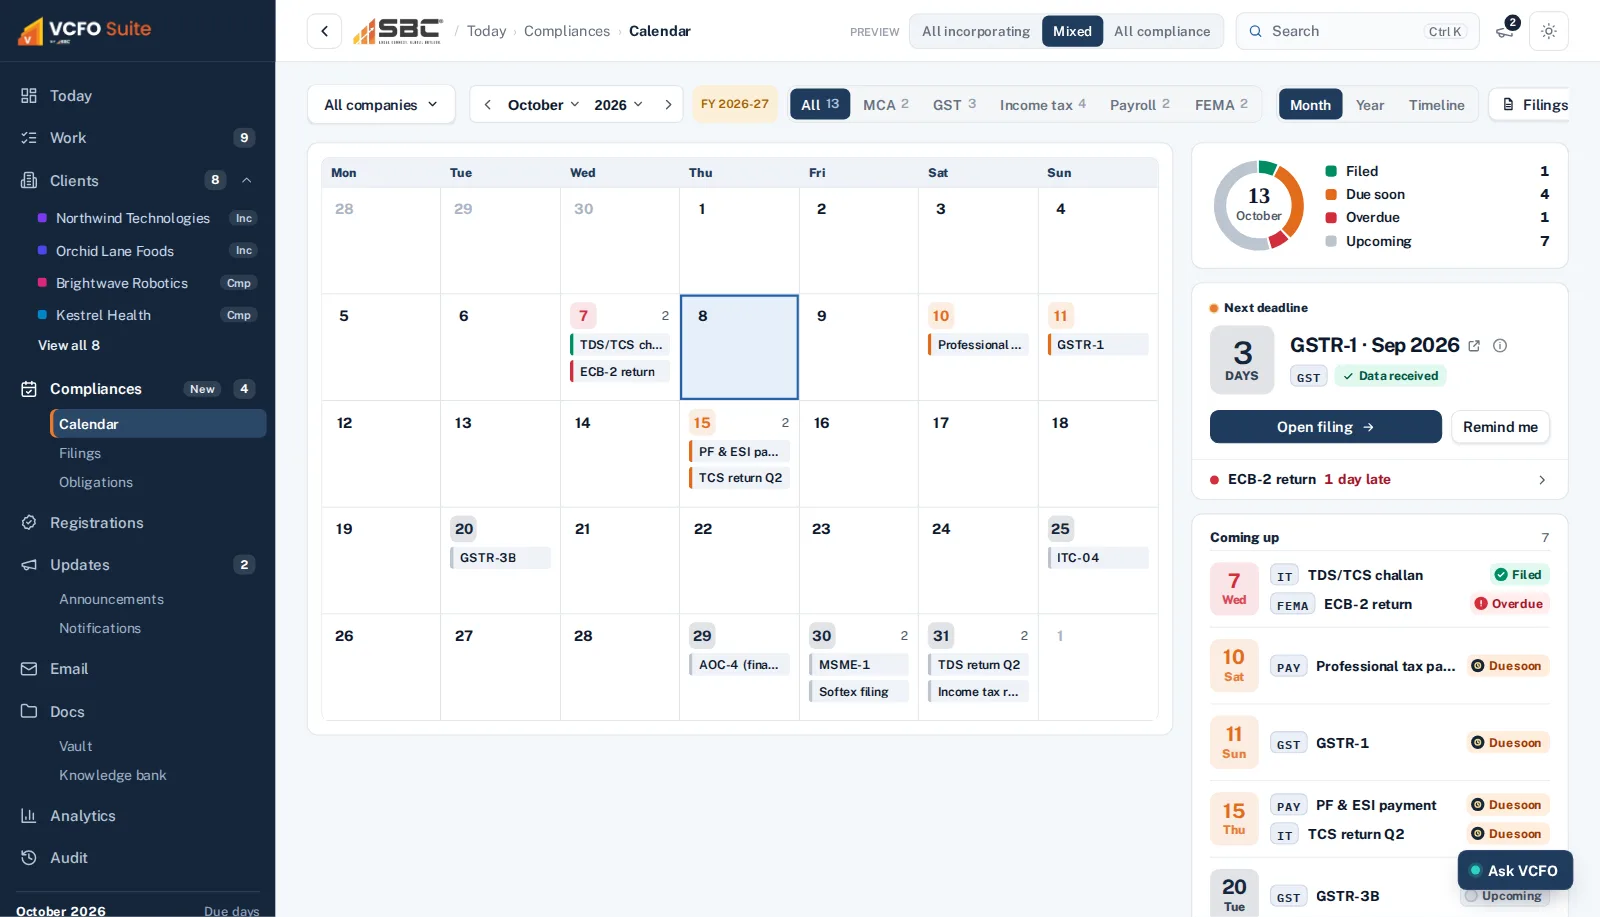
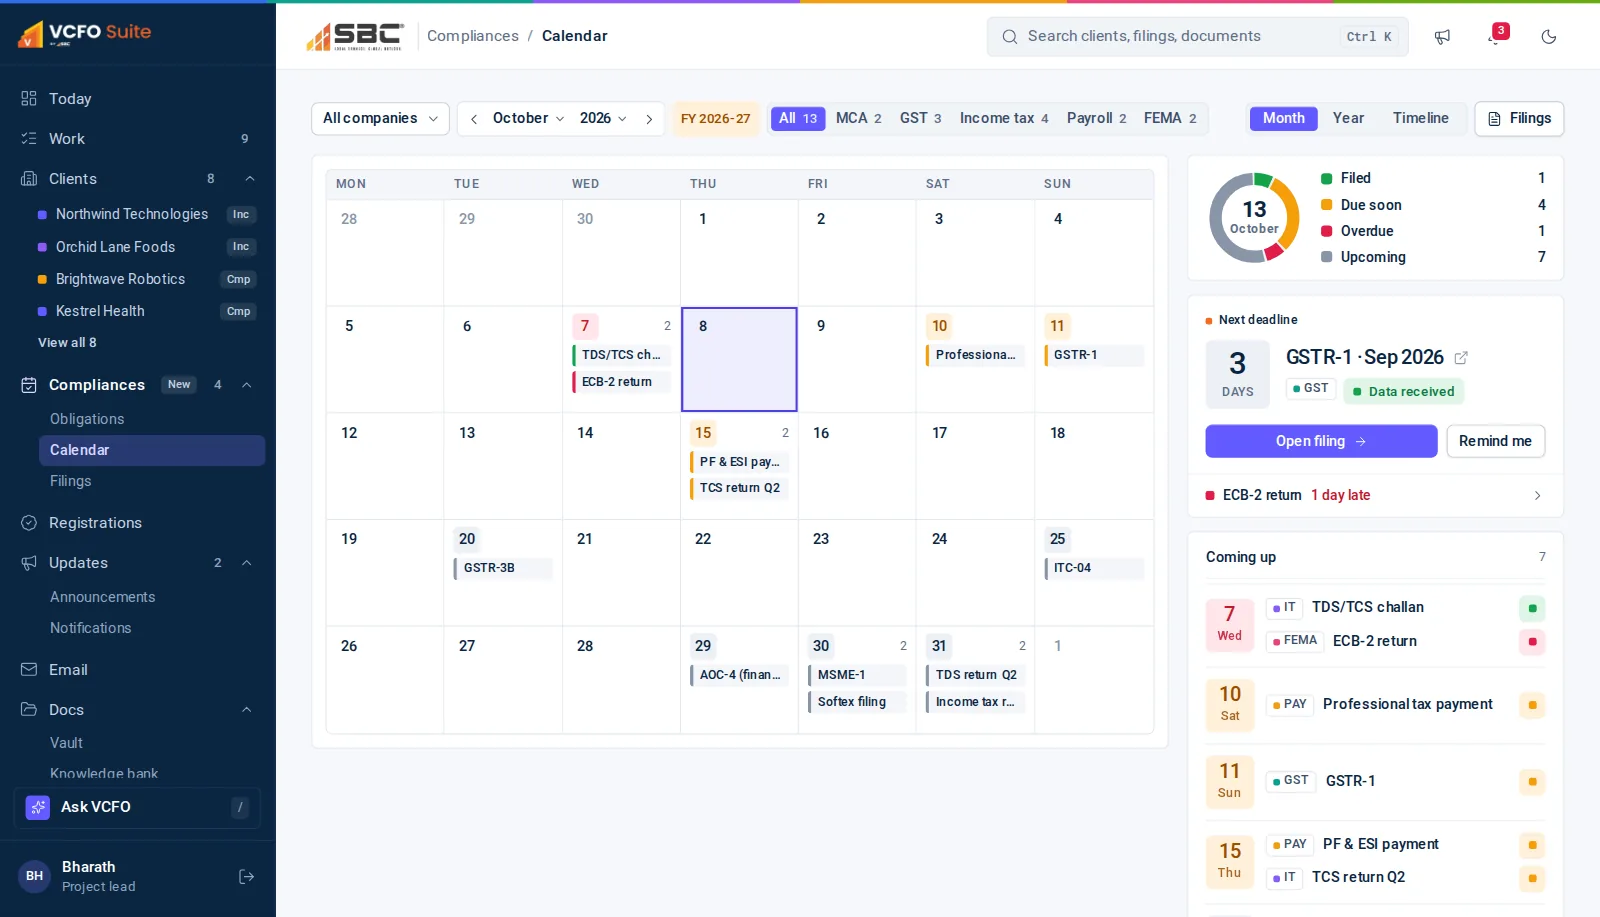
Spectrum: review fixes 1
- Landing: the intro logo is anchored to the hero, never mid-page.
- Landing: hero, calendar, filings, portal and Ask screenshots retaken from the Spectrum screens.
- Home tiles: sub lines on every staff Today, sparklines for overdue and waiting where history exists; label spans the tile.
- Manager Today approvals: one title line and one meta line.

Claude-Session: https://claude.ai/code/session_01WJz9229Se3HGJ2hCALHz88

diff --git a/src/screens/staff/today-parts.tsx b/src/screens/staff/today-parts.tsx
@@ -9,7 +9,7 @@ import { clientById, clientsFor, PHASE_TOTALS, type StaffClient } from "@/data/s
 import { INBOX, queueFor, tasksFor, type StaffTask, type TaskStatus } from "@/data/staff-tasks";
 import { LEAD_STATS, MANAGERS, leadOpen, managerRows, UNASSIGNED } from "@/data/staff-team";
 import { APPROVALS } from "@/data/staff-tasks";
-import { TODOS, sameDay, type Todo } from "@/data/staff-work";
+import { DAY_SHORT, TODOS, WEEK, sameDay, type Todo } from "@/data/staff-work";
 import {
   DAYS_TO_COI,
   DONE_TODAY,
@@ -26,6 +26,7 @@ import {
   filingRow,
   phaseCells,
   practiceNumbers,
+  TODAY_NOTES,
   waitingOnClient,
   weekItems,
   type FilingCell,
@@ -160,10 +161,14 @@ export function todayStats(portal: StaffPortal, scope: Scope): StatItem[] {
   if (portal === "admin") {
     const cl = clientsFor(portal).filter((c) => inScope(scope, c.id));
     const open = tasksFor(portal).filter((t) => t.status !== "Done" && inScope(scope, t.client));
+    const overdue = open.filter((t) => t.status === "Overdue");
+    const stuck = cl.filter((c) => c.health === "Stuck");
+    const lastDay = WEEK[WEEK.length - 1];
     return [
       {
         label: "Clients",
         value: cl.length,
+        sub: `${new Set(cl.map((c) => c.manager)).size} managers`,
         Icon: Building2,
         tone: "blue",
         href: `${b}/clients`,
@@ -171,6 +176,7 @@ export function todayStats(portal: StaffPortal, scope: Scope): StatItem[] {
       {
         label: "Incorporating",
         value: cl.filter((c) => c.stage === "incorporating").length,
+        sub: `${cl.filter((c) => c.stage === "incorporating" && c.pendingWith === "MCA").length} with MCA`,
         Icon: Rocket,
         tone: "violet",
         href: `${b}/clients`,
@@ -178,13 +184,15 @@ export function todayStats(portal: StaffPortal, scope: Scope): StatItem[] {
       {
         label: "In compliance",
         value: cl.filter((c) => c.stage === "compliance").length,
+        sub: `${cl.filter((c) => c.stage === "compliance" && c.pendingWith === "Client").length} waiting on client`,
         Icon: ShieldCheck,
         tone: "green",
         href: `${b}/clients`,
       },
       {
         label: "Overdue",
-        value: open.filter((t) => t.status === "Overdue").length,
+        value: overdue.length,
+        sub: `${new Set(overdue.map((t) => t.client)).size} clients`,
         Icon: AlertTriangle,
         tone: "red",
         bad: true,
@@ -192,7 +200,8 @@ export function todayStats(portal: StaffPortal, scope: Scope): StatItem[] {
       },
       {
         label: "Stuck",
-        value: cl.filter((c) => c.health === "Stuck").length,
+        value: stuck.length,
+        sub: stuck.length ? `longest ${Math.max(...stuck.map((c) => c.days))} days` : undefined,
         Icon: Clock,
         tone: "amber",
         bad: true,
@@ -201,6 +210,7 @@ export function todayStats(portal: StaffPortal, scope: Scope): StatItem[] {
       {
         label: "Due this week",
         value: open.filter((t) => t.status === "Due this week").length,
+        sub: `by ${DAY_SHORT[lastDay.getDay()]} ${fmt(lastDay)}`,
         Icon: CalendarDays,
         tone: "teal",
         href: `${b}/work`,
@@ -210,10 +220,18 @@ export function todayStats(portal: StaffPortal, scope: Scope): StatItem[] {
   const queue = queueFor(portal).filter((t) => inScope(scope, t.client));
   const late = queue.filter((t) => t.status === "Overdue").length + filingCounts(clientsFor(portal).filter((c) => inScope(scope, c.id))).overdue;
   const week = weekItems(portal).filter((w) => w.kind !== "done" && inScope(scope, w.client)).length;
+  const notes = TODAY_NOTES[portal];
+  const lateTasks = queue.filter((t) => t.status === "Overdue");
+  const lateClients = new Set(lateTasks.map((t) => t.client)).size;
+  const waits = waitingOnClient(portal).filter((t) => inScope(scope, t.client));
+  const oldest = Math.max(0, ...waits.map((t) => t.days));
+  const lastDay = WEEK[WEEK.length - 1];
+  const full = scope === "all";
   return [
     {
       label: "Needs action",
       value: queue.length,
+      sub: full && notes.newToday ? `${notes.newToday} new today` : undefined,
       Icon: ListChecks,
       tone: "blue",
       href: `${b}/work`,
@@ -221,6 +239,9 @@ export function todayStats(portal: StaffPortal, scope: Scope): StatItem[] {
     {
       label: "Overdue",
       value: late,
+      sub: lateClients ? `${lateClients} ${lateClients === 1 ? "client" : "clients"}` : undefined,
+      spark: full ? notes.overdueTrend : undefined,
+      sparkTone: "bad",
       Icon: AlertTriangle,
       tone: "red",
       bad: late > 0,
@@ -228,7 +249,10 @@ export function todayStats(portal: StaffPortal, scope: Scope): StatItem[] {
     },
     {
       label: "Waiting on clients",
-      value: waitingOnClient(portal).filter((t) => inScope(scope, t.client)).length + WAIT_MCA.filter((w) => inScope(scope, w.client)).length,
+      value: waits.length + WAIT_MCA.filter((w) => inScope(scope, w.client)).length,
+      sub: oldest ? `oldest ${oldest} days` : undefined,
+      spark: full ? notes.waitingTrend : undefined,
+      sparkTone: "teal",
       Icon: User,
       tone: "amber",
       href: `${b}/work`,
@@ -236,12 +260,14 @@ export function todayStats(portal: StaffPortal, scope: Scope): StatItem[] {
     {
       label: "Due this week",
       value: week,
+      sub: `by ${DAY_SHORT[lastDay.getDay()]} ${fmt(lastDay)}`,
       Icon: CalendarDays,
       tone: "teal",
       href: `${b}/work`,
     },
     {
       label: "Done today",
+      sub: notes.doneWhat,
       value: DONE_TODAY[portal],
       Icon: CheckCheck,
       tone: "green",
@@ -847,11 +873,11 @@ export function ApprovalsWaiting({ portal, notify }: { portal: StaffPortal; noti
           <ListRow key={a.id}>
             {c && <ClientCodeTile c={c} size={30} />}
             <span className="min-w-0 flex-1">
-              <Link href={clientHref(portal, a.client)} className="block font-medium leading-snug text-ink hover:underline">
+              <Link href={clientHref(portal, a.client)} title={`${a.title} · sent by ${a.by}`} className="block truncate font-medium leading-snug text-ink hover:underline">
                 {a.title}
               </Link>
               <span className="block truncate text-12.5 text-muted">
-                {c?.short} · <span className={today ? "text-warn" : "text-accent"}>{today ? "Due today" : `Due ${fmt(a.sent)}`}</span> · {a.by.split(" ")[0]}
+                {c?.short} · <span className={today ? "text-warn" : "text-accent"}>{today ? "Due today" : `Due ${fmt(a.sent)}`}</span>
               </span>
             </span>
             <Button

diff --git a/src/screens/public/LandingScreen.tsx b/src/screens/public/LandingScreen.tsx
@@ -126,7 +126,7 @@ export function LandingScreen({ fontClass = "" }: { fontClass?: string }) {
             <div className="float float-a" data-app="filings" aria-label="Open the filings screen" role="link" tabIndex={0}><span className="pill pill-positive">Filed</span><span className="t"><span>GSTR-3B, September</span><span className="mono">Acknowledgement attached</span></span></div>
             <div className="float float-b" data-app="inc-step-7" aria-label="Open step 7, registered office address" role="link" tabIndex={0}><span className="pill pill-highlight">Needs you</span><span className="t"><span>Utility bill for the office</span><span className="mono">Due 9 Oct</span></span></div>
             <div className="frame" data-app="incorporation" aria-label="Open the incorporation screen" role="link" tabIndex={0}>
-              <img src="/landing/hero-incorporation.webp" alt="VCFO Suite client portal, incorporation view for Northwind Technologies India Pvt Ltd: 22 days to the Certificate of Incorporation, 6 of 25 steps done, this week's tasks and the SPICe+ timeline." width="2400" height="1375" fetchPriority="high" />
+              <img src="/landing/hero-incorporation.webp" alt="VCFO Suite client portal, incorporation view for Northwind Technologies India Pvt Ltd: 22 days to the Certificate of Incorporation, 6 of 25 steps done, the current steps with who holds each one, this week's tasks and the incorporation status." width="2400" height="1375" fetchPriority="high" />
             </div>
           </div>
         </div>
@@ -476,19 +476,19 @@ export function LandingScreen({ fontClass = "" }: { fontClass?: string }) {
             </div>
             <div className="tabpanel">
               <div className="frame" role="tabpanel" id="panel-client" aria-labelledby="tab-client" hidden={tab !== "client"} data-app="home">
-                <img src="/landing/portal-client.webp" alt="Client portal home for Northwind Technologies India Pvt Ltd: what is needed from Northwind, who holds each step now, steps around Northwind and important alerts." width="2000" height="1146" />
+                <img src="/landing/portal-client.webp" alt="Client portal home for Northwind Technologies India Pvt Ltd: the home card with five numbers, the incorporation steps with who holds each one, what is needed from Northwind and the timeline." width="2000" height="1146" />
               </div>
               <div className="frame" role="tabpanel" id="panel-lead" aria-labelledby="tab-lead" hidden={tab !== "lead"} data-app="lead-home">
-                <img src="/landing/portal-lead.webp" alt="Project lead Today screen for Bharath: this week across eight companies, the action queue by company, triage and the calendar of due days." width="2000" height="1146" />
+                <img src="/landing/portal-lead.webp" alt="Project lead Today screen for Bharath: the home card with five numbers, the action queue by company, the inbox and phase progress." width="2000" height="1146" />
               </div>
               <div className="frame" role="tabpanel" id="panel-manager" aria-labelledby="tab-manager" hidden={tab !== "manager"} data-app="mgr-home">
-                <img src="/landing/portal-manager.webp" alt="Manager Today screen for Pranay: this week across eight companies, team tasks by project lead, company and status, and the task status breakdown." width="2000" height="1146" />
+                <img src="/landing/portal-manager.webp" alt="Manager Today screen for Pranay: the home card with five numbers, team tasks with filters, approvals, the task status donut and workload by project lead." width="2000" height="1146" />
               </div>
               <div className="frame" role="tabpanel" id="panel-admin" aria-labelledby="tab-admin" hidden={tab !== "admin"} data-app="admin-home">
-                <img src="/landing/portal-admin.webp" alt="Admin Today screen for Krishna: fourteen clients with their stage, manager, who it is pending with, and health, the managers' load, and the incorporation pipeline." width="2000" height="1146" />
+                <img src="/landing/portal-admin.webp" alt="Admin Today screen for Krishna: the home card, the practice areas, fourteen clients with their stage, manager and health, and the managers' load." width="2000" height="1146" />
               </div>
               <div className="frame" role="tabpanel" id="panel-super" aria-labelledby="tab-super" hidden={tab !== "super"} data-app="super-home">
-                <img src="/landing/portal-super.webp" alt="Super admin overview for Mithilesh: the firm's numbers, the three practice areas side by side, admins and managers, top risks and clients needing attention." width="2000" height="1146" />
+                <img src="/landing/portal-super.webp" alt="Super admin overview for Mithilesh: the home card with the firm's numbers, the practice areas side by side, top risks and clients needing attention." width="2000" height="1146" />
               </div>
             </div>
           </div>
@@ -501,7 +501,7 @@ export function LandingScreen({ fontClass = "" }: { fontClass?: string }) {
           <div className="ask">
             <div className="reveal">
               <div className="panel" data-app="home-chat" aria-label="Open Ask VCFO" role="link" tabIndex={0}>
-                <img src="/landing/ask-vcfo.webp" alt="Ask VCFO panel inside the client portal, answering from Northwind's project data, with suggested questions." width="779" height="1126" />
+                <img src="/landing/ask-vcfo.webp" alt="Ask VCFO panel inside the client portal, answering from Northwind's project data, with suggested questions." width="779" height="1150" />
               </div>
             </div>
             <div className="reveal">

diff --git a/src/components/cards/GreetingCard.tsx b/src/components/cards/GreetingCard.tsx
@@ -20,6 +20,8 @@ export interface StatItem {
   sub?: string;
   /** Sparkline points. */
   spark?: number[];
+  /** Sparkline colour; default from bad/good, else blurple. */
+  sparkTone?: "bad" | "ok" | "teal" | "warn" | "accent";
   /** Small green progress bar under the number, in percent. */
   bar?: number;
   href?: string;
@@ -32,27 +34,29 @@ export function NumberStrip({ items, className, onWash }: { items: StatItem[]; c
       {items.map((s) => {
         const inner = (
           <>
-            <span className="flex min-w-0 flex-1 flex-col gap-1.5">
-              <span className="flex items-start gap-1.5 text-13 font-medium leading-[18px] text-ink-2">
-                <s.Icon size={15} strokeWidth={1.6} className="mt-px flex-none text-muted" aria-hidden />
-                <span className="min-w-0">{s.label}</span>
-              </span>
-              <b className={cn("text-26 font-medium tabular-nums", s.bad ? "text-bad" : s.good ? "text-ok" : "text-ink")}>
-                {s.value}
-                {s.of && <small className="ml-1 text-14 font-medium text-muted">{s.of}</small>}
-              </b>
-              {s.bar !== undefined && (
-                <span className="block h-1 w-full max-w-[120px] overflow-hidden rounded-bar bg-line" aria-hidden>
-                  <i className="block h-full rounded-bar bg-ok-mid" style={{ width: `${s.bar}%` }} />
-                </span>
-              )}
-              {s.sub && <span className="truncate text-12.5 text-muted">{s.sub}</span>}
+            <span className="flex min-w-0 items-center gap-1.5 whitespace-nowrap text-13 font-medium text-ink-2">
+              <s.Icon size={15} strokeWidth={1.6} className="flex-none text-muted" aria-hidden />
+              <span className="truncate">{s.label}</span>
             </span>
-            {s.spark && <Spark points={s.spark} className={s.bad ? "text-bad-mid" : s.good ? "text-ok-mid" : "text-accent-mid"} />}
+            <span className="flex min-w-0 items-end gap-2.5">
+              <span className="flex min-w-0 flex-1 flex-col gap-1.5">
+                <b className={cn("text-26 font-medium tabular-nums", s.bad ? "text-bad" : s.good ? "text-ok" : "text-ink")}>
+                  {s.value}
+                  {s.of && <small className="ml-1 text-14 font-medium text-muted">{s.of}</small>}
+                </b>
+                {s.bar !== undefined && (
+                  <span className="block h-1 w-full max-w-[120px] overflow-hidden rounded-bar bg-line" aria-hidden>
+                    <i className="block h-full rounded-bar bg-ok-mid" style={{ width: `${s.bar}%` }} />
+                  </span>
+                )}
+                {s.sub && <span className="truncate text-12.5 text-muted">{s.sub}</span>}
+              </span>
+              {s.spark && <Spark points={s.spark} className={SPARK[s.sparkTone ?? (s.bad ? "bad" : s.good ? "ok" : "accent")]} />}
+            </span>
           </>
         );
         const cls = cn(
-          "flex min-w-0 items-end gap-2.5 rounded-md px-4 py-3.5",
+          "flex min-w-0 flex-col justify-start gap-1.5 rounded-md px-4 py-3.5",
           onWash ? "border border-wash-tile-line bg-wash-tile shadow-tile" : "border-1.5 border-line bg-surface",
           s.href && "transition-colors hover:border-line-2",
         );
@@ -69,6 +73,8 @@ export function NumberStrip({ items, className, onWash }: { items: StatItem[]; c
     </div>
   );
 }
+
+const SPARK = { bad: "text-bad-mid", ok: "text-ok-mid", teal: "text-teal-mid", warn: "text-warn-mid", accent: "text-accent-mid" } as const;
 
 /** 68 x 30 sparkline in the colour of what it measures. */
 function Spark({ points, className }: { points: number[]; className?: string }) {

diff --git a/src/data/staff-today.ts b/src/data/staff-today.ts
@@ -201,6 +201,16 @@ export function practiceNumbers(portal: StaffPortal) {
 /** Done today count for the greeting (Main.dc.html KPIs). */
 export const DONE_TODAY: Record<StaffPortal, number> = { lead: 2, manager: 2, admin: 6 };
 
+/**
+ * Home card sub lines and trends (R-18). Lead and manager share Bharath's queue, so they share these.
+ * Trends are the last seven working days, ending today. Admin has no history in the sample data.
+ */
+export const TODAY_NOTES: Record<StaffPortal, { newToday?: number; doneWhat?: string; overdueTrend?: number[]; waitingTrend?: number[] }> = {
+  lead: { newToday: 3, doneWhat: "GSTR-1 · PT", overdueTrend: [2, 2, 3, 3, 5, 4, 4], waitingTrend: [4, 5, 5, 7, 6, 6, 6] },
+  manager: { newToday: 3, doneWhat: "GSTR-1 · PT", overdueTrend: [2, 2, 3, 3, 5, 4, 4], waitingTrend: [4, 5, 5, 7, 6, 6, 6] },
+  admin: {},
+};
+
 /** Week strip default: today. */
 export const WEEK_TODAY = WEEK.findIndex((w) => sameDay(w, STAFF_TODAY));
 

diff --git a/src/screens/public/LandingParts.tsx b/src/screens/public/LandingParts.tsx
@@ -326,12 +326,13 @@ export function playIntro(opts: { root: HTMLElement; hero: HTMLElement; navImg: 
     '<g id="rv-byline" opacity="0"><text id="rv-byText" class="by" font-size="18" font-weight="700" letter-spacing="3.5">BY</text>' +
     '<image id="rv-sbc" href="/landing/sbc-mark.webp" width="72" height="21.3"/></g></g></svg>';
   root.appendChild(wrap);
+  // Page coordinates: the intro sits over the hero only, never further down the page.
   const place = () => {
     const r = hero.getBoundingClientRect();
     const top = Math.max(0, r.top);
     const h = Math.min(r.bottom, innerHeight) - top;
-    wrap.style.left = r.left + "px";
-    wrap.style.top = top + "px";
+    wrap.style.left = r.left + scrollX + "px";
+    wrap.style.top = top + scrollY + "px";
     wrap.style.width = r.width + "px";
     wrap.style.height = Math.max(240, h) + "px";
   };

diff --git a/src/styles/landing.css b/src/styles/landing.css
@@ -299,7 +299,7 @@ html:has(.lp) { scroll-behavior: smooth; -webkit-text-size-adjust: 100%; overflo
 .lp.pre-reveal .hero .enter { animation-play-state: paused; }
 .lp.reveal-logo .nav-logo img { opacity: 0; }
 .lp .nav-logo img { transition: opacity 220ms ease; }
-.lp #reveal { position: fixed; z-index: 35; display: grid; place-items: center; pointer-events: none; }
+.lp #reveal { position: absolute; z-index: 35; display: grid; place-items: center; pointer-events: none; }
 .lp #reveal svg { display: block; width: min(88%, 1000px); height: auto; max-height: 90%; overflow: visible; transform-origin: 0 0; }
 .lp #reveal.glide svg { transition: transform 720ms cubic-bezier(0.65, 0, 0.35, 1); }
 .lp #reveal.fast svg { transition-duration: 320ms; }

diff --git a/src/screens/client/HomeScreen.tsx b/src/screens/client/HomeScreen.tsx
@@ -150,7 +150,7 @@ export function HomeScreen() {
   const open = (spec: DrillSpec, tab = 0) => drill.open(spec, tab);
 
   const statsBefore: StatItem[] = [
-    { label: "Waiting on Northwind", value: 4, Icon: User, tone: "amber", href: "#dd-you" },
+    { label: "Waiting on Northwind", value: 4, sub: "1 overdue", Icon: User, tone: "amber", href: "#dd-you" },
     { label: "With SBC", value: 1, sub: SBC_STEP?.title, Icon: Building2, tone: "blue", href: "#dd-sbc" },
     { label: "Overdue", value: 1, sub: LATE_NEED?.title, Icon: AlertTriangle, tone: "red", bad: true, href: "#dd-late" },
     { label: "Documents in", value: "4/6", bar: 67, Icon: FileText, tone: "teal", href: "#dd-docs" },

diff --git a/docs/CHANGES.md b/docs/CHANGES.md
@@ -147,3 +147,4 @@ The owner said the new prototype misses many parts of the old one, and the landi
 | C-0110 | 28 Oct 2026 | Developer, All | Developer console, shared screens | Every screen | Mono on dates and emails. Navy Library and profile bands. | Mono only for identifiers. Filter chips, segmented levels, T1 rows. White heads in Library and profile. | R-02, R-10, R-28 | `src/screens/dev/*`, `src/screens/shared/*` | Files in `REAL-TOOL-MAP.md` | ✓ |
 | C-0111 | 28 Oct 2026 | Public | Landing | Every section | A light landing with drawn mock-ups. It drifted from the v6 prototype the owner liked. | The v6 landing again: navy page, blue buttons, typed hero word, stage diagrams, 180-day timeline, registrations map, year ring, portal tabs, FAQ, logo intro. The bot figure is removed. | R-04 | `src/screens/public/LandingScreen.tsx`, `LandingParts.tsx`, `content.ts`, `src/styles/landing.css`, `public/landing/*` | new: marketing site | ✓ |
 | C-0112 | 28 Oct 2026 | Public | Landing | Comparison | No comparison with other ways of working. | "Spreadsheets break when compliance stops being routine." Six rows compare VCFO Suite with a generic task tool and spreadsheets. Phones show two columns. Board C2. | — | `src/screens/public/LandingParts.tsx` (`CompareSection`), `content.ts` | new: marketing site | ✓ |
+| C-0113 | 29 Oct 2026 | Public, all staff | Landing, Today | Review fixes 1 | The intro logo could show mid-page in a full-page capture. Landing screenshots show the old UI. Home tiles have no sub line. Approval rows wrap. | The intro sits over the hero only. Every landing screenshot is retaken from the Spectrum screens. Tiles carry a sub line and, where a trend exists, a sparkline. Approval rows are one title line and one meta line. | R-18, R-48 | `src/screens/public/LandingParts.tsx`, `src/styles/landing.css`, `public/landing/*`, `src/components/cards/GreetingCard.tsx`, `src/screens/staff/today-parts.tsx`, `src/data/staff-today.ts` | new: marketing site; `src/components/intern/LeadSideRail.tsx` | ✓ |
